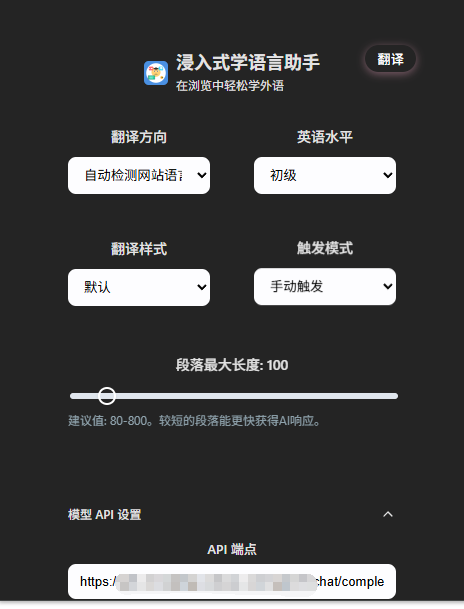
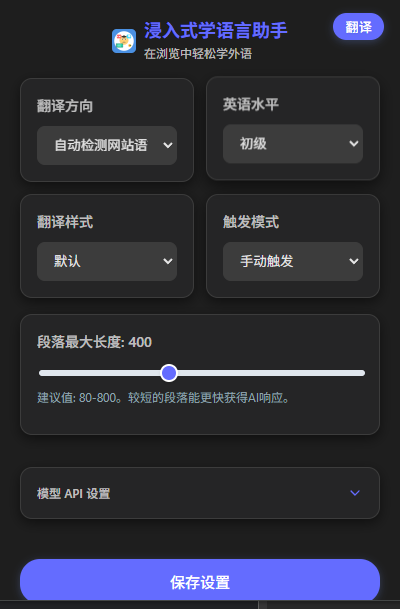
doc: 添加浅色主题和暗黑模式UI样式图片

diff --git a/README.md b/README.md
@@ -58,10 +58,16 @@
 <div align="center">
   <img src="images/p1.png"  alt="扩展功能展示" />
   <img src="images/p2.png"  alt="扩展功能展示" />
+  <p><i>深色主题样式</i></p>
+  <img src="images/p3.png" alt="扩展功能展示" />
+  <p><i>浅色主题样式</i></p>
   <img src="images/wx.png" alt="扩展功能展示" />
   <img src="images/md.png"  alt="扩展功能展示" />
   <img src="images/md1.png"  alt="扩展功能展示" />
   <p><i>扩展的主界面及设置选项 (Main interface and settings)</i></p>
+
+
+
 </div>
 
 
@@ -71,7 +77,7 @@
 ### 1. 先决条件 (Prerequisites)
 
 - [Node.js](https://nodejs.org/) (version 18 or higher)
-- [pnpm](https://pnpm.io/installation)
+- [npm](https://nodejs.org/)
 
 ### 2. 安装 (Installation)
 
@@ -144,7 +150,7 @@ npm run zip
 ├── .env                  # (本地) 环境变量，不提交
 ├── .env.example          # 环境变量模板
 ├── package.json
-├── pnpm-lock.yaml
+├── package-lock.json
 ├── README.md             
 └── wxt.config.ts         # WXT 配置文件
 ```
